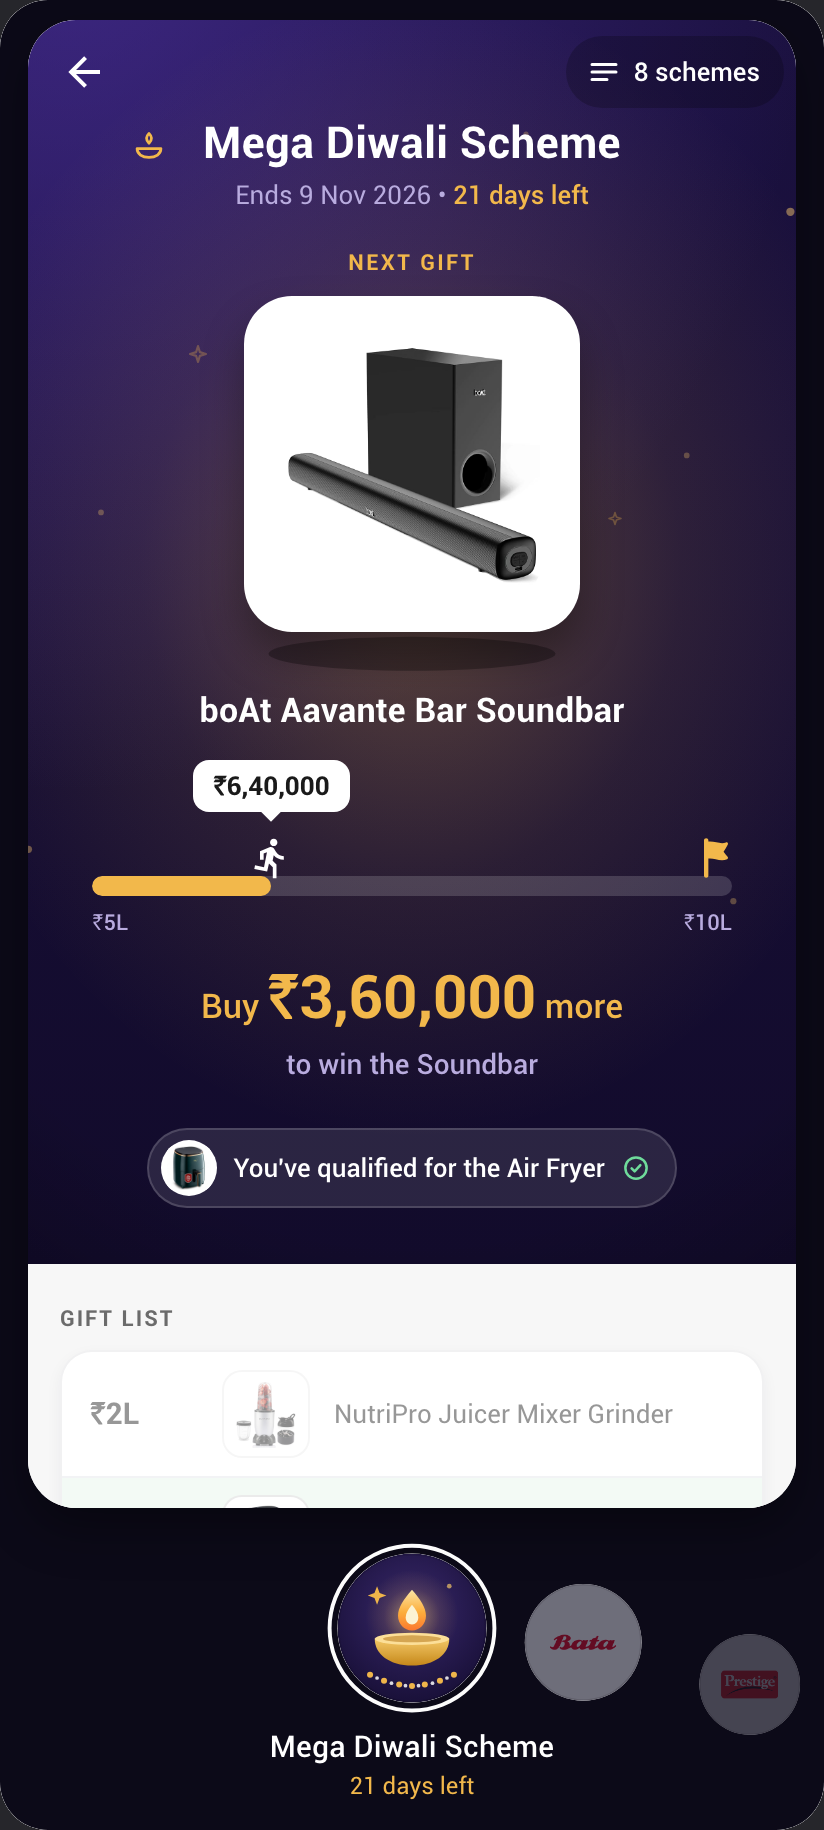
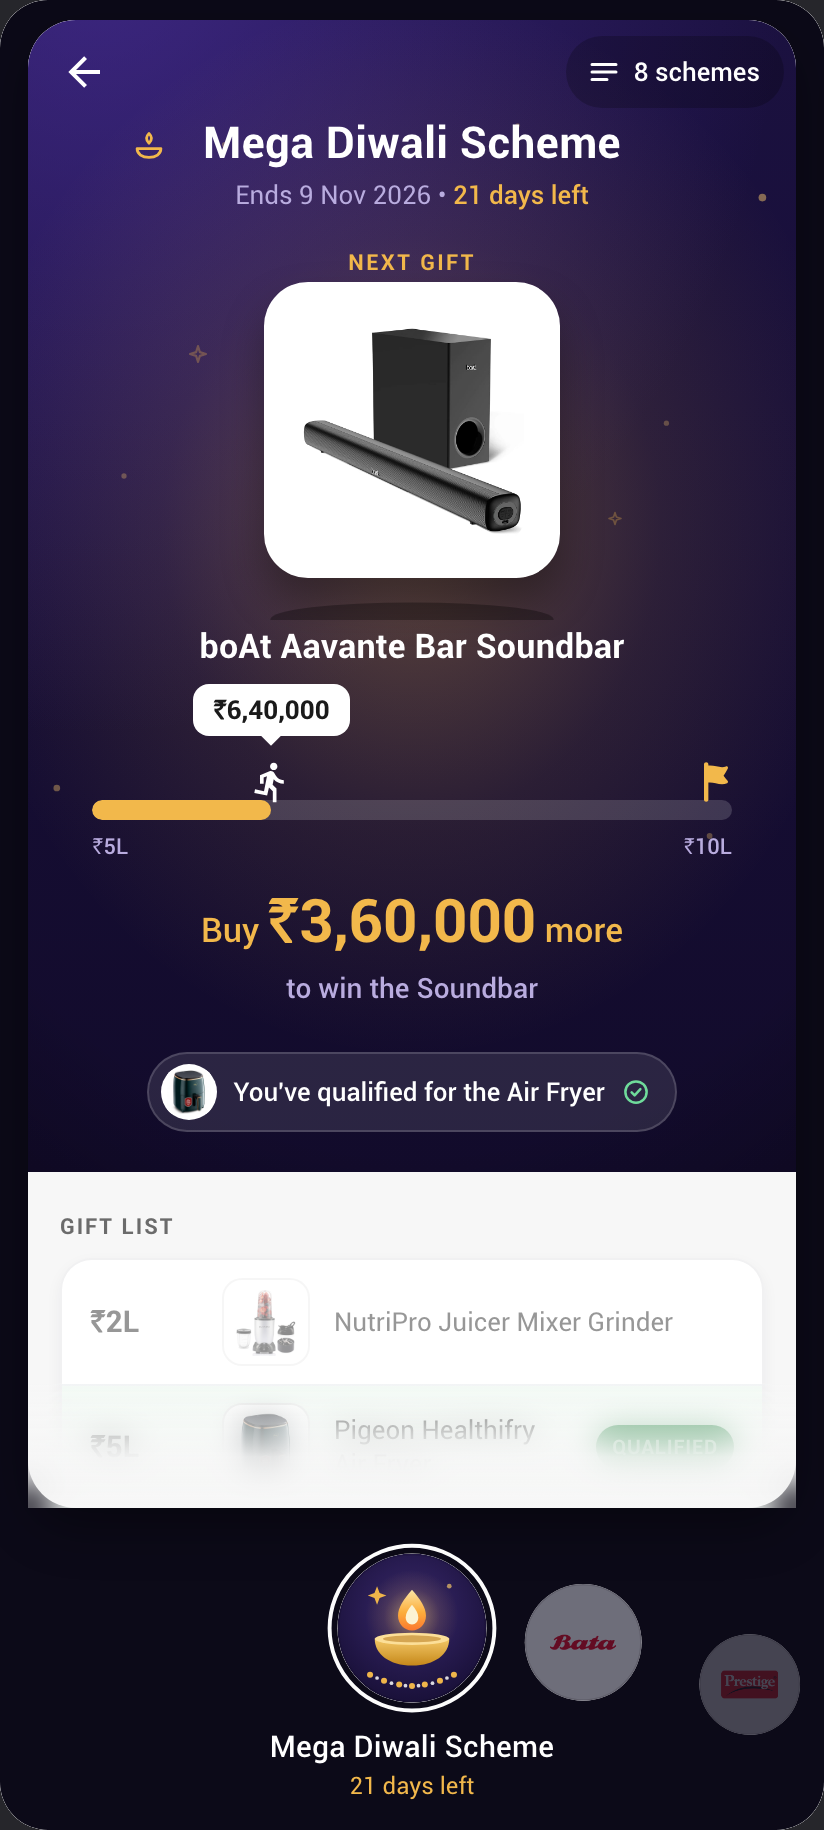
Version B fold: compact stage, a material edge that tracks the scroll, indicator flash
- The sheet's stage is compact (pedestal 204, tile 148, tighter tag and ask
  spacing), so a list row is sliced at the fold on every scheme type.
- A 64 px band at the sheet's bottom dissolves content into the card's
  colour (web: 8 px backdrop blur under a gradient mask). Its opacity tracks
  the scroll left below: full while there is more, gone over the last 48 px.
- On native the scroll indicator flashes once, 350 ms after arrival.
- Version A is unchanged: its pages fill the screen and the glass dock
  already shows content passing under it.

Changed region(s): [[0.0303, 0.1557, 0.9709, 0.8098], [0.9405, 0.8098, 0.9709, 0.841], [0.0303, 0.8098, 0.0607, 0.841]]

diff --git a/src/schemes/SchemePage.js b/src/schemes/SchemePage.js
@@ -16,7 +16,7 @@
 // The page draws no back button; the pager owns the fixed one. Tapping the
 // scheme title calls `onTitlePress` (the prototype's demo panel).
 import React, { useEffect, useRef, useState } from 'react';
-import { View, Text, Image, Pressable, ScrollView, StyleSheet, Animated, Easing } from 'react-native';
+import { View, Text, Image, Pressable, ScrollView, StyleSheet, Animated, Easing, Platform } from 'react-native';
 import LottieView from 'lottie-react-native';
 import { LinearGradient } from 'expo-linear-gradient';
 import Svg, { Ellipse } from 'react-native-svg';
@@ -77,7 +77,12 @@ const rise = (v, d = 10) => ({
   transform: [{ translateY: v.interpolate({ inputRange: [0, 1], outputRange: [d, 0] }) }],
 });
 
-export default function SchemePage({ scheme, active, first, offset, bottomPad, onTitlePress, onSeeRunning, lang = 'en' }) {
+// `compact` tightens the stage for a page that lives inside a sheet, so a row of
+// the list is always sliced at the sheet's fold. `edge` draws the fold as a
+// material: a 64 px band where content dissolves into the card's colour, whose
+// opacity tracks the scroll left below; it is full while there is more, and gone
+// at the end. On the web the band also blurs what passes under it.
+export default function SchemePage({ scheme, active, first, offset, bottomPad, onTitlePress, onSeeRunning, lang = 'en', compact = false, edge = false }) {
   const t = T[lang] || T.en;
   const th = themeOf(scheme.theme);
   const st = th.stage;
@@ -86,6 +91,23 @@ export default function SchemePage({ scheme, active, first, offset, bottomPad, o
   const slab = scheme.fmt;
   const money = scheme.money;
   const [addressConfirmed, setAddressConfirmed] = useState(false);
+
+  // The fold. scrollY drives the edge band; the sizes tell where the end is.
+  const scrollRef = useRef(null);
+  const scrollY = useRef(new Animated.Value(0)).current;
+  const [scrollMax, setScrollMax] = useState(0);
+  const sizes = useRef({ content: 0, view: 0 });
+  const onSizes = () => setScrollMax(Math.max(0, sizes.current.content - sizes.current.view));
+  const edgeOpacity = scrollMax > 8
+    ? scrollY.interpolate({ inputRange: [Math.max(0, scrollMax - 48), scrollMax], outputRange: [1, 0], extrapolate: 'clamp' })
+    : 0;
+  // On arrival the platform's own indicator flashes once (native only).
+  useEffect(() => {
+    if (active && Platform.OS !== 'web') {
+      const id = setTimeout(() => scrollRef.current?.flashScrollIndicators?.(), 350);
+      return () => clearTimeout(id);
+    }
+  }, [active]);
 
   const running = s.started && !s.ended;
   const withDelivery = s.state === STATE.ENDED_PENDING || s.state === STATE.GIFT_ORDERED || s.state === STATE.DELIVERED;
@@ -210,10 +232,24 @@ export default function SchemePage({ scheme, active, first, offset, bottomPad, o
 
   return (
     <View style={[styles.page, missed && { backgroundColor: st.ground2 }]}>
-      <ScrollView contentContainerStyle={[{ paddingBottom: missed ? 0 : bottomPad }, missed && { flexGrow: 1 }]} showsVerticalScrollIndicator={false}>
+      <ScrollView
+        ref={scrollRef}
+        contentContainerStyle={[{ paddingBottom: missed ? 0 : bottomPad }, missed && { flexGrow: 1 }]}
+        showsVerticalScrollIndicator={Platform.OS !== 'web'}
+        scrollEventThrottle={16}
+        onScroll={Animated.event([{ nativeEvent: { contentOffset: { y: scrollY } } }], { useNativeDriver: false })}
+        onContentSizeChange={(_, h) => {
+          sizes.current.content = h;
+          onSizes();
+        }}
+        onLayout={(e) => {
+          sizes.current.view = e.nativeEvent.layout.height;
+          onSizes();
+        }}
+      >
         {/* ——— The stage. A missed scheme has nothing below it, so its stage
             fills the page: one dark room, one line, one way out. ——— */}
-        <View style={[styles.stage, missed && { flex: 1 }]}>
+        <View style={[styles.stage, compact && styles.stageCompact, missed && { flex: 1 }]}>
           <StageScene stage={st} festive={festive} focusY={missed ? 0.2 : 0.44} />
           <View style={styles.topBar} />
 
@@ -243,7 +279,7 @@ export default function SchemePage({ scheme, active, first, offset, bottomPad, o
             </View>
           ) : (
             <>
-              <Animated.View style={[styles.pedestal, lag]}>
+              <Animated.View style={[styles.pedestal, compact && styles.pedestalCompact, lag]}>
                 <Svg width="100%" height="100%" viewBox="0 0 412 250" preserveAspectRatio="xMidYMid slice" style={StyleSheet.absoluteFill} pointerEvents="none">
                   <Ellipse cx="206" cy="234" rx="76" ry="9" fill="#000" opacity="0.3" />
                 </Svg>
@@ -261,12 +297,12 @@ export default function SchemePage({ scheme, active, first, offset, bottomPad, o
                   {hero.label}
                 </Animated.Text>
                 <Animated.View
-                  style={[styles.tile, { opacity: tileA, transform: [{ scale: tileA.interpolate({ inputRange: [0, 1], outputRange: [0.9, 1] }) }] }]}
+                  style={[styles.tile, compact && styles.tileCompact, { opacity: tileA, transform: [{ scale: tileA.interpolate({ inputRange: [0, 1], outputRange: [0.9, 1] }) }] }]}
                 >
                   {hero.gift.voucher ? (
-                    <GiftThumb gift={hero.gift} size={128} />
+                    <GiftThumb gift={hero.gift} size={compact ? 112 : 128} />
                   ) : hero.gift.image ? (
-                    <Image source={hero.gift.image} style={styles.tileImg} resizeMode="contain" />
+                    <Image source={hero.gift.image} style={[styles.tileImg, compact && styles.tileImgCompact]} resizeMode="contain" />
                   ) : (
                     <GiftGlyph kind={hero.gift.icon} size={80} color={st.accentDeep} strokeWidth={1.2} />
                   )}
@@ -279,7 +315,7 @@ export default function SchemePage({ scheme, active, first, offset, bottomPad, o
               {showBar ? (
                 <>
                   {trackW > 0 && localPct > 0 ? (
-                    <View style={styles.dTagRow}>
+                    <View style={[styles.dTagRow, compact && { marginTop: 8 }]}>
                       <Animated.View
                         style={[
                           styles.tagWrap,
@@ -302,7 +338,7 @@ export default function SchemePage({ scheme, active, first, offset, bottomPad, o
                       </Animated.View>
                     </View>
                   ) : (
-                    <View style={styles.dTagRow} />
+                    <View style={[styles.dTagRow, compact && { marginTop: 8 }]} />
                   )}
 
                   <View style={styles.barZone}>
@@ -519,6 +555,13 @@ export default function SchemePage({ scheme, active, first, offset, bottomPad, o
         ) : null}
       </ScrollView>
 
+      {edge ? (
+        <Animated.View pointerEvents="none" style={[styles.edge, { opacity: edgeOpacity }]}>
+          <View style={styles.edgeBlur} dataSet={{ dissolve: 'true' }} />
+          <LinearGradient colors={['rgba(247,247,247,0)', 'rgba(247,247,247,0.88)', N.bg]} locations={[0, 0.6, 1]} style={StyleSheet.absoluteFill} />
+        </Animated.View>
+      ) : null}
+
       {confetti ? (
         <Animated.View style={[styles.confetti, { opacity: confettiA }]} pointerEvents="none">
           <LottieView source={RIMG.ribbon} autoPlay loop={false} style={{ flex: 1 }} />
@@ -545,6 +588,7 @@ const styles = StyleSheet.create({
   page: { flex: 1, backgroundColor: N.bg },
 
   stage: { paddingBottom: 28, overflow: 'hidden' },
+  stageCompact: { paddingBottom: 20 },
   // Room for the pager's fixed back button (44px hit, 14px from the top).
   topBar: { height: 14 + 44 - 10 },
   titleRow: { flexDirection: 'row', justifyContent: 'center', marginTop: 0 },
@@ -568,6 +612,7 @@ const styles = StyleSheet.create({
   securedText: { fontFamily: F.medium, fontSize: 13, lineHeight: 17 },
 
   pedestal: { height: 236, alignItems: 'center', justifyContent: 'center', marginTop: 0 },
+  pedestalCompact: { height: 204 },
   sparkleL: { position: 'absolute', left: '20%', top: 64 },
   sparkleR: { position: 'absolute', right: '22%', top: 148 },
   heroLabel: { position: 'absolute', top: 18, fontFamily: F.bold, fontSize: 11, lineHeight: 15, letterSpacing: 1.2 },
@@ -585,7 +630,9 @@ const styles = StyleSheet.create({
     shadowRadius: 20,
     shadowOffset: { width: 0, height: 12 },
   },
+  tileCompact: { width: 148, height: 148, marginTop: 14, borderRadius: 22 },
   tileImg: { width: 128, height: 128, borderRadius: 12 },
+  tileImgCompact: { width: 112, height: 112 },
   giftName: { marginTop: 2, textAlign: 'center', fontFamily: F.bold, fontSize: 17, lineHeight: 22, paddingHorizontal: 24, letterSpacing: 0.1 },
   heroNote: { marginTop: 12, textAlign: 'center', fontFamily: F.regular, fontSize: 13, lineHeight: 19, paddingHorizontal: 44 },
   finalBought: { marginTop: 8, textAlign: 'center', fontFamily: F.medium, fontSize: 13, lineHeight: 17 },
@@ -670,4 +717,7 @@ const styles = StyleSheet.create({
   confirmedText: { fontFamily: F.medium, fontSize: 13, lineHeight: 16, color: N.green },
 
   confetti: { position: 'absolute', left: 0, right: 0, top: 0, bottom: 0 },
+  // The fold as a material: content dissolves into the card over 64 px.
+  edge: { position: 'absolute', left: 0, right: 0, bottom: 0, height: 64 },
+  edgeBlur: { ...StyleSheet.absoluteFillObject },
 });

diff --git a/src/schemes/SchemeDock.js b/src/schemes/SchemeDock.js
@@ -53,7 +53,9 @@ if (Platform.OS === 'web' && typeof document !== 'undefined' && !document.getEle
   s.textContent =
     '[data-glass]{backdrop-filter:blur(22px) saturate(1.35);-webkit-backdrop-filter:blur(22px) saturate(1.35);}' +
     '[data-noselect]{user-select:none;-webkit-user-select:none;}' +
-    '[data-noselect] img{-webkit-user-drag:none;pointer-events:none;}';
+    '[data-noselect] img{-webkit-user-drag:none;pointer-events:none;}' +
+    '[data-dissolve]{backdrop-filter:blur(8px);-webkit-backdrop-filter:blur(8px);' +
+    'mask-image:linear-gradient(to bottom,rgba(0,0,0,0),rgba(0,0,0,1) 70%);-webkit-mask-image:linear-gradient(to bottom,rgba(0,0,0,0),rgba(0,0,0,1) 70%);}';
   document.head.appendChild(s);
 }
 

diff --git a/app/schemes/arc.js b/app/schemes/arc.js
@@ -116,6 +116,8 @@ export default function MySchemesArc() {
                     first={i === firstIndex}
                     offset={offsets[i]}
                     bottomPad={24}
+                    compact
+                    edge
                     onTitlePress={() => setDemoOpen((v) => !v)}
                     onSeeRunning={sc.group === 'completed' ? () => goTo(firstRunning) : null}
                   />

diff --git a/docs/SCHEME-DOCK.md b/docs/SCHEME-DOCK.md
@@ -178,6 +178,23 @@ eye sees no mode switch, because both are the same map.
 - The focused label is 100 % white; the others are 55 %.
 - Each thumb is a 64 px wide button with the scheme title as its accessibility label.
 
+## The fold (version B)
+
+The sheet's bottom edge must say "more below" without a hint label. Three moves:
+
+1. The stage is compact inside the sheet (pedestal 204 px, tile 148 px, tighter tag
+   and ask spacing), about 60 px shorter, so a row of the list is sliced at the fold
+   on every scheme type. A sliced row is the strongest signifier there is.
+2. The fold is a material. A 64 px band at the sheet's bottom dissolves the content
+   into the card's colour (on the web it also blurs what passes under it, 8 px under a
+   gradient mask). Its opacity tracks the scroll left below: full while there is
+   more, gone over the last 48 px. The edge tells the truth instead of hinting.
+3. On native the platform's own scroll indicator flashes once, 350 ms after arrival.
+
+Not done, on purpose: a pinned CTA bar (it stacks about 240 px of chrome above the
+arc and rewrites the page's ending), a chevron or "scroll for details" label, and a
+peek nudge on arrival.
+
 ## Gift list
 
 Every gift is one row: slab value, 44 px photo, name, and a label on the right. The
